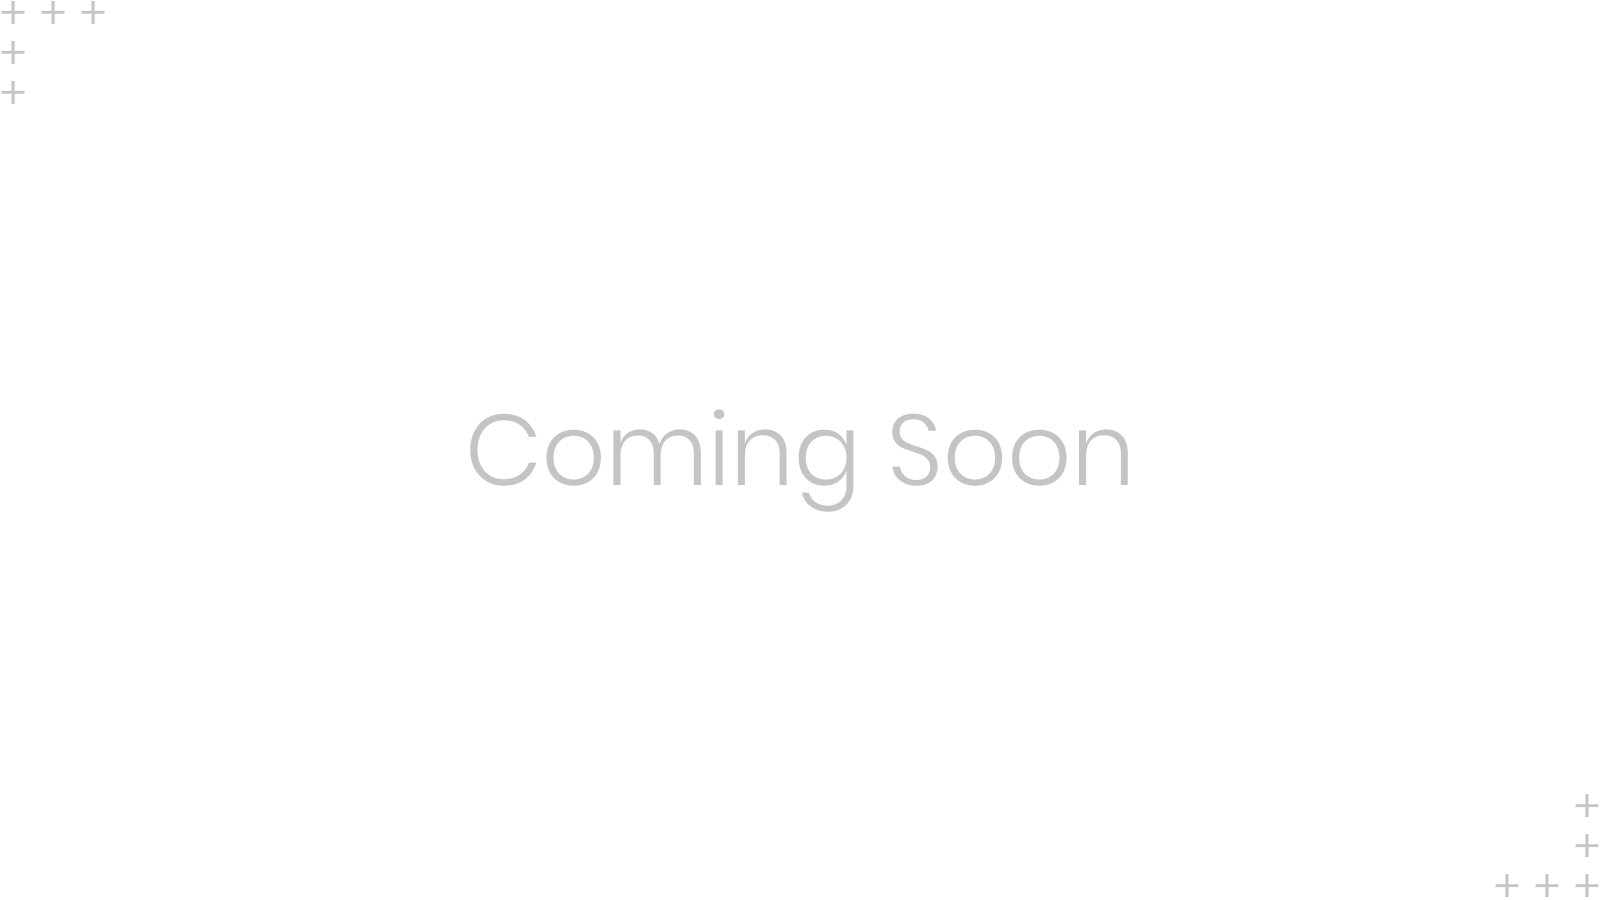
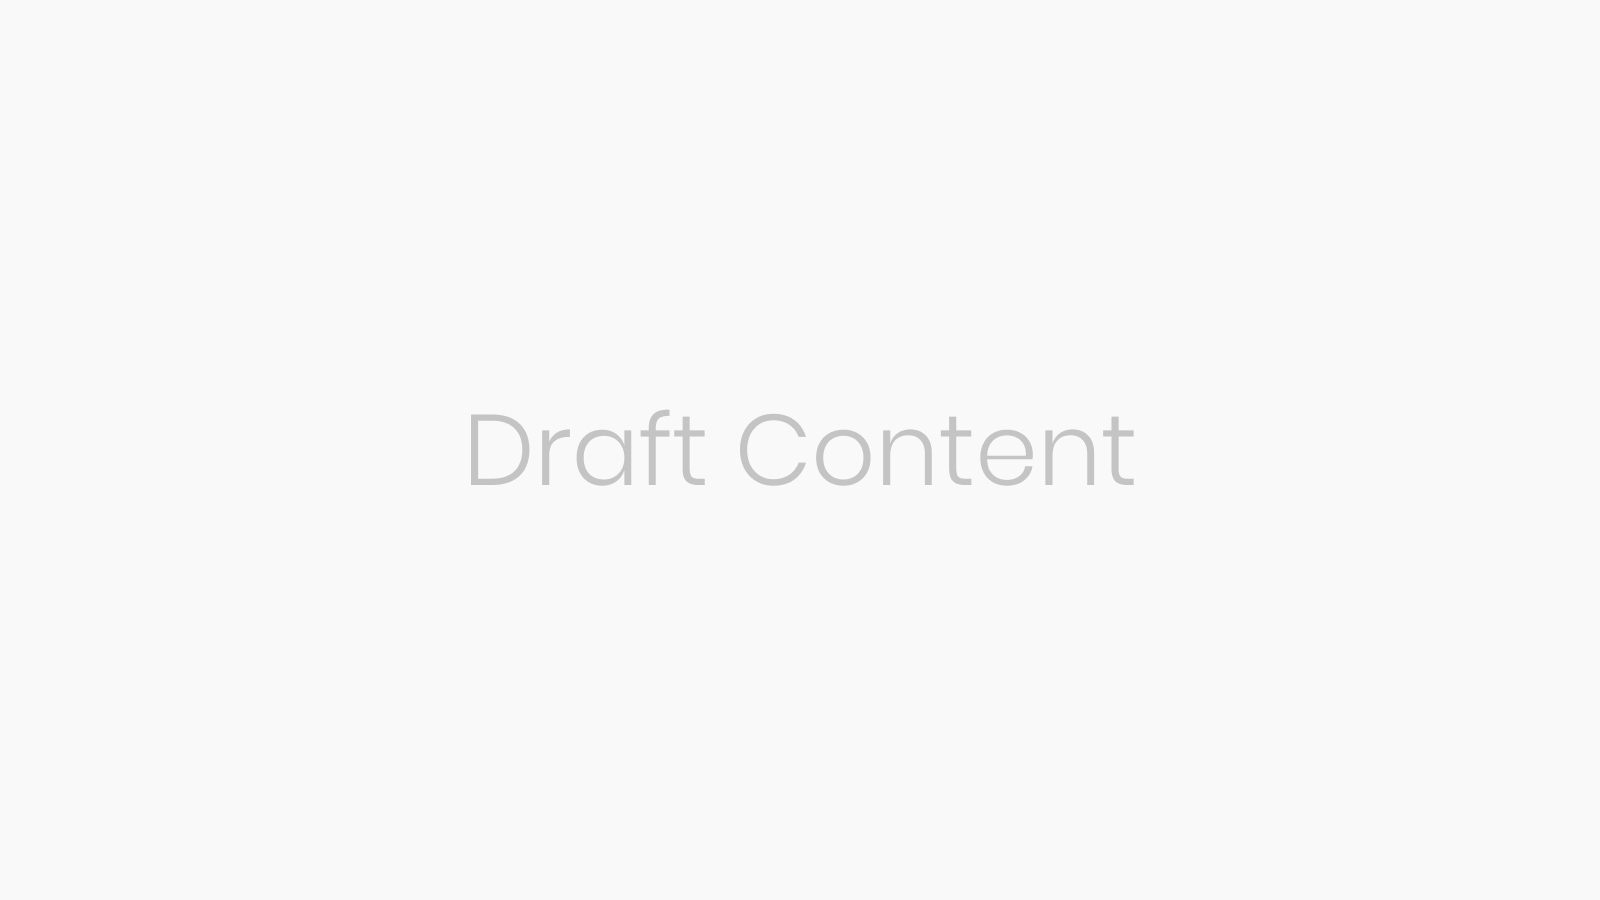
Begin draft Research case

Changed region(s): [[0.2812, 0.4356, 0.7188, 0.5911], [0.9375, 0.9644, 1.0, 0.9956], [0.0, 0.0, 0.0625, 0.0311]]

diff --git a/src/work/insight-gathering-qualitative-research.md b/src/work/insight-gathering-qualitative-research.md
@@ -1,0 +1,26 @@
+---
+title: DRAFT — Gathering insight through qualitative research
+intro: Conducting a short research study in order to help inform how we might improve a key customer touchpoint.
+hero: case-study__placeholder.jpg
+date: 2018-12-14
+tags: 
+- ux
+theme: 
+---
+
+## Background
+
+Throughout 2018 TotallyMoney made ~£1.2 million in gross profit from sending product alert emails to customers—who'd opted-in—providing them with the latest relevent offers from the credit cards and loans markets. However, during this time the content, structure and design had remained largely unchanged.
+
+There was a desire within the business to update and refresh the design of our alerts, to make them even better for our customers as well as more performative from a revenue point of view. We had a lot of quantitative data we could look at (open rates, click through rates, et cetera) to help inform any design decisions we might make, however we lacked anything qualitative. In order to better understand what our customers thought about our product alert emails, we chose to conduct a brief research study to see if we could uncover some useful insight.
+
+## My role
+
+Under the guidance of TotallyMoney's UX lead, I worked to plan, conduct and analyse a short research study that aimed to help TotallyMoney better understand what customers thought of the product alert emails being sent out on a regular basis. 
+
+<figure>
+	<img src="/_assets/img/case-study__placeholder.jpg" />
+</figure>
+
+
+
